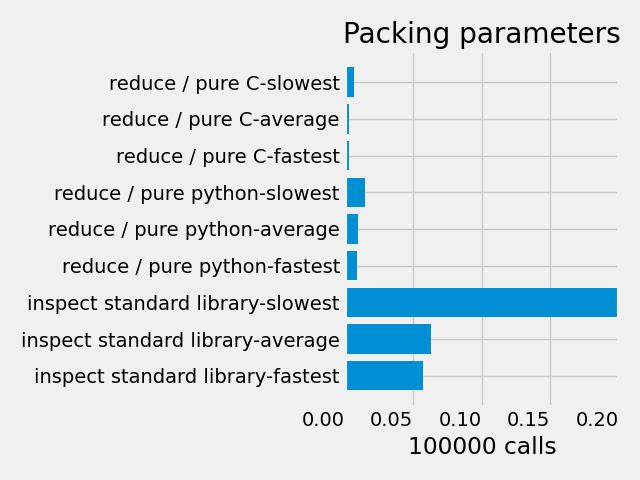
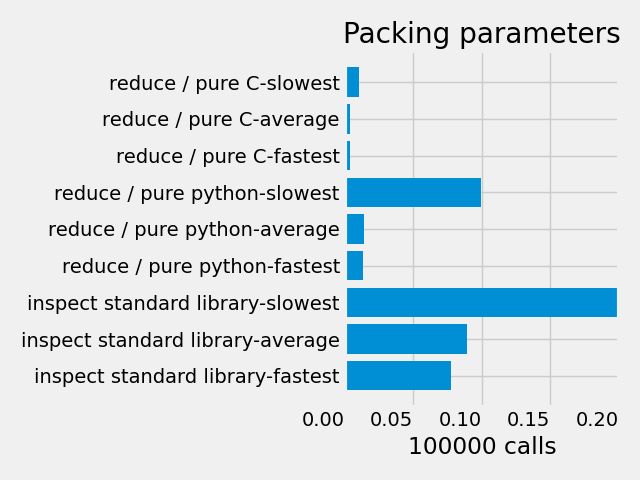
fix `__wrapper__` segfault. (#27)
* fix __wrapper__ segfault.

* reformat

diff --git a/src/reductable_params/_reducelib/reduce_object.h b/src/reductable_params/_reducelib/reduce_object.h
@@ -144,12 +144,13 @@ static int rd_init(ReduceObject* self, PyObject* func, mod_state* state){
     
     PyObject* defaults_items = NULL;
     PyObject* args_and_kwargs = NULL;
-    
     PyObject* name = rd_get_name(func, state);
+
     if (name == NULL){
         return -1;
     }
     self->name = name;
+
     args_and_kwargs = rd_varnames(func, state);
 
     if (args_and_kwargs == NULL){
@@ -188,8 +189,11 @@ static int rd_init(ReduceObject* self, PyObject* func, mod_state* state){
 
     self->nparams = PyTuple_GET_SIZE(self->params);
     self->nargs = PyTuple_GET_SIZE(self->args);
-    ret = 0;
-    
+
+    Py_CLEAR(defaults_items);
+    Py_CLEAR(args_and_kwargs);
+    return 0;
+
 finish:
     Py_CLEAR(defaults_items);
     Py_CLEAR(args_and_kwargs);
@@ -225,19 +229,26 @@ rd_get_args(ReduceObject* self){
 //     return NULL;
 // }
 
-static PyObject* 
-reduce_args_get(ReduceObject *self, void *Py_UNUSED(arg))
-{
-    return rd_get_args(self);
-}
+// static PyObject* 
+// reduce_args_get(ReduceObject *self, void *Py_UNUSED(arg))
+// {
+//     return rd_get_args(self);
+// }
 
 PyDoc_STRVAR(reduce_kwargs__doc__,
 "lists out optional arguments of this wrapped function."
 );
 
+// static PyObject* 
+// rd_get_kwargs(ReduceObject* self){
+//     return Py_NewRef(self->kwargs);
+// }
+
+
 static PyObject* 
-rd_get_kwargs(ReduceObject* self){
-    return Py_NewRef(self->kwargs);
+reduce__wrapped__get(ReduceObject *self, void *Py_UNUSED(arg))
+{
+    return Py_NewRef(self->wrapped);
 }
 
 // static PyObject* 
@@ -246,11 +257,11 @@ rd_get_kwargs(ReduceObject* self){
 //     return NULL;
 // }
 
-static PyObject* 
-reduce_kwargs_get(ReduceObject *self, void *Py_UNUSED(arg))
-{
-    return rd_get_kwargs(self);
-}
+// static PyObject* 
+// reduce_kwargs_get(ReduceObject *self, void *Py_UNUSED(arg))
+// {
+//     return rd_get_kwargs(self);
+// }
 
 // TODO: Vectorcall
 PyDoc_STRVAR(
@@ -454,6 +465,7 @@ static PyMethodDef reduce_methods[] = {
 };
 
 static PyMemberDef reduce_members[] = {
+    // XXX: Crashes so we can't do __wrapped__
     {"__wrapped__",
      Py_T_OBJECT_EX,
      offsetof(ReduceObject, wrapped),
@@ -475,8 +487,9 @@ static PyMemberDef reduce_members[] = {
 };
 
 // static PyGetSetDef reduce_getsetlist[] = {
-//     {"args", (getter)reduce_args_get, NULL, reduce_args__doc__},
-//     {"kwargs", (getter)reduce_kwargs_get, NULL, reduce_kwargs__doc__},
+//     {"__wrapped__", (getter)reduce__wrapped__get, NULL, NULL},
+//     // {"args", (getter)reduce_args_get, NULL, reduce_args__doc__},
+//     // {"kwargs", (getter)reduce_kwargs_get, NULL, reduce_kwargs__doc__},
 //     {NULL} /* Sentinel */
 // };
 

diff --git a/tests/test_reduce.py b/tests/test_reduce.py
@@ -1,10 +1,15 @@
 from __future__ import annotations
 
+from typing import ParamSpec, TypeVar
+
 import pytest
 
 from reductable_params._reduce import reduce as reduce_c
 from reductable_params._reduce_py import reduce as reduce_py
 from reductable_params.abc import Reducable, is_reducable
+
+_T = TypeVar("_T")
+_P = ParamSpec("_P")
 
 
 @pytest.fixture(
@@ -106,6 +111,14 @@ class BaseTestReduce:
     def test_is_reducable_check(self):
         assert is_reducable(self.make_test_1())
         assert is_reducable(0xDEAD) is False
+
+    def test_wrapper(self):
+        # XXX: Meant to Simulate a bug with 1.0.0 C Extension
+        # where Py_DECREF(func) on non-failure caused 1.0.0 to
+        # trigger a complete mealtdown and then crash.
+        func = self.make_test_1()
+        wrapped = func.__wrapped__
+        assert wrapped.__name__ == "sig"
 
 
 class TestCReduce(BaseTestReduce):

diff --git a/setup.py b/setup.py
@@ -1,4 +1,8 @@
+import sys
+
 from setuptools import Extension, setup
+
+FLAGS = ["/O2" if sys.platform == "win32" else "-O3"]
 
 if __name__ == "__main__":
     setup(
@@ -6,6 +10,7 @@ if __name__ == "__main__":
             Extension(
                 "reductable_params._reduce",
                 ["src/reductable_params/_reduce.c"],
+                extra_compile_args=FLAGS,
             )
         ]
     )

diff --git a/src/reductable_params/__init__.py b/src/reductable_params/__init__.py
@@ -3,4 +3,4 @@ from .abc import is_reducable
 
 __all__ = ("is_reducable", "reduce")
 __author__ = "Vizonex"
-__version__ = "1.0.0"
+__version__ = "1.0.1"
